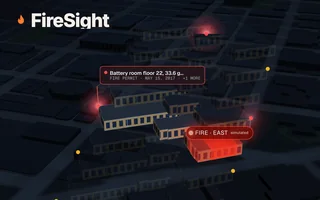
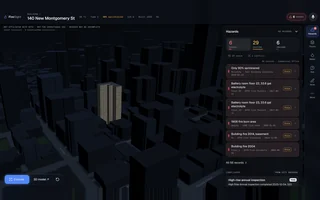
FireSight: Vidyut's 140 New Montgomery screenshot

diff --git a/src/data/content.js b/src/data/content.js
@@ -254,7 +254,7 @@ export const hero = {
         badgeKind: 'win',
         image: {
           src: '/builds/ring/firesight.webp',
-          alt: 'FireSight: 140 New Montgomery St exploded floor by floor on the San Francisco city map, a simulated fire on floor 22 glowing red, and the battery room on that floor pinned from a fire permit',
+          alt: 'FireSight on 140 New Montgomery St: the 26-story tower lit in the 3D San Francisco city beside its Hazards panel, 6 danger and 29 caution records such as the battery rooms on floors 22 and 23',
         },
       },
     ],
@@ -591,7 +591,7 @@ export const builds = {
       stack: 'React · three.js · React Three Fiber · Hono · Zod · Claude · ElevenLabs · MCP · DataSF',
       media: {
         image: '/builds/firesight.webp',
-        alt: 'FireSight demo: 140 New Montgomery St exploded floor by floor on the San Francisco city map, a simulated fire on floor 22 glowing red, the battery room on that floor pinned from a 2017 fire permit, and nearby hydrants marked',
+        alt: 'FireSight on 140 New Montgomery St: the 26-story tower lit in the 3D San Francisco city beside its Hazards panel of 56 cited city records (6 danger, 29 caution), including battery rooms on floors 22 and 23 and past building fires',
       },
       links: [
         { label: 'Live demo', href: 'https://firesight-ten.vercel.app' },
